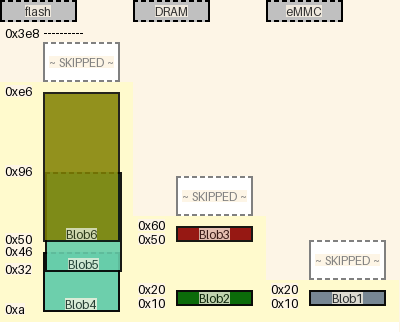
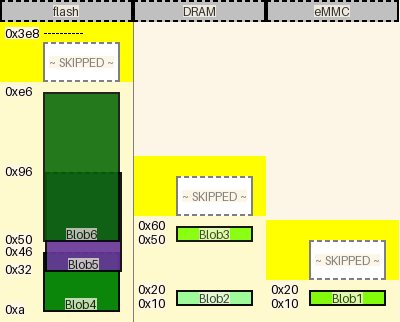
widened title block, fixed dead space at bottom of reduced diagrams

diff --git a/mm/diagram.py b/mm/diagram.py
@@ -69,8 +69,9 @@ class MemoryMapDiagram:
         """width of the area used for text annotations/legend"""
 
         self.name_lbl = mm.image.MapNameImage(self.name, 
-                                              img_width=(self.width - self._legend_width - (self.width//5)), 
+                                              img_width=self.width, 
                                               font_size=self.default_region_text_size)
+        """Title graphic for this memory map"""
         
         self.voidregion = mm.image.VoidRegionImage(
             img_width=(self.width - self._legend_width - (self.width//5)), 
@@ -121,14 +122,12 @@ class MemoryMapDiagram:
     def _draw(self, 
               image_list: List[mm.image.MemoryRegionImage]):
         
-        # map_name_lbl = mm.image.TextLabelImage(self.name, self.fixed_legend_text_size, font_colour="red")
         new_diagram_img = PIL.Image.new(
             "RGBA", 
             (self.width, 
              self.height), 
             color="lemonchiffon")
         
-        # new_diagram_img.paste(im=map_name_lbl.img, box=(new_diagram_img.width // 2, new_diagram_img.height - map_name_lbl.height ))
         # paste each new graphic element image to main image
         alpha = 255
         for memregion in image_list:
@@ -211,14 +210,19 @@ class MemoryMapDiagram:
         region_subset_list: List[PIL.Image.Image] = []
         img_addr_idx = 0
 
-        for memregion in memregion_list:
+        for  memregion in memregion_list:
             region_end_addr = memregion.origin_as_int + memregion.size_as_int
             if memregion.freespace_as_int > self.voidthreshold:
 
+                # try and grab some extra space below the region subset
+                # but only if were not at the very bottom of the diagram
+                if img_addr_idx - 10 > 0:
+                    img_addr_idx = img_addr_idx - 10
+                    
                 # dont forget the image is upside down at this stage, so upper and lower are reversed.
                 (left, upper, right, lower) = (
                     0,
-                    img_addr_idx - 10,
+                    img_addr_idx,
                     original_img.width,
                     region_end_addr + 10,
                 )
@@ -244,12 +248,12 @@ class MemoryMapDiagram:
             new_cropped_image = PIL.Image.new(
                 "RGBA", 
                 (self.width, new_cropped_height), 
-                color=Diagram.model.diagram_bgcolour)
-            
-        
+                color="yellow")
+                 
             y_pos = 0
+            
             for region_subset in region_subset_list:
-                
+
                 new_cropped_image.paste(region_subset, (0, y_pos))
                 
                 y_pos = y_pos + region_subset.height
@@ -260,6 +264,8 @@ class MemoryMapDiagram:
                 )
 
                 y_pos = y_pos + self.voidregion.img.height
+
+
 
             self.final_image_reduced = new_cropped_image
 
@@ -341,12 +347,14 @@ class Diagram:
         if self.mmd_list[0].final_image_reduced.height > Diagram.model.diagram_height:
             logging.warning(f"The largest reduced memory map exceeds the overal diagram height. Clamping to {Diagram.model.diagram_height}")
             self.mmd_list[0].final_image_reduced.height = Diagram.model.diagram_height
- 
+    
+        # calc the tallest title graphic
         max_name_lbl_height = 0
         for mmd in self.mmd_list:
             if mmd.name_lbl.img.height > max_name_lbl_height:
                 max_name_lbl_height = mmd.name_lbl.img.height
 
+        # This is the overal diagrm image that we will paste the individual memory map diagram images onto
         reduced_diagram_img = PIL.Image.new(
             "RGBA", 
             (Diagram.model.diagram_width, max_reduced_diagram_height + max_name_lbl_height), 
@@ -355,6 +363,7 @@ class Diagram:
         for idx, mmd in enumerate(self.mmd_list):
             # draw maps upside-down so that their bottom edges line up together (image origin is top-left)
             mmd.final_image_reduced = mmd.final_image_reduced.transpose(PIL.Image.FLIP_TOP_BOTTOM)
+
             # add the mem map diagram image
             reduced_diagram_img.paste(
                 mmd.final_image_reduced, 
@@ -365,6 +374,9 @@ class Diagram:
                 reduced_diagram_img,
                 ( (idx * mmd.width), reduced_diagram_img.height - mmd.name_lbl.img.height),
                 alpha=255)
+            
+            border_canvas = PIL.ImageDraw.ImageDraw(reduced_diagram_img)
+            border_canvas.line(xy=(mmd.final_image_reduced.width, 0, mmd.final_image_reduced.width, mmd.final_image_reduced.height), fill="grey")            
 
         top_addr = Diagram.model.diagram_height
         top_addr_lbl = mm.image.TextLabelImage(hex(top_addr), mmd.fixed_legend_text_size)

diff --git a/tests/test_void_regions.py b/tests/test_void_regions.py
@@ -64,7 +64,7 @@ def test_void_region_default(setup):
 
         assert setup["image_cropped"].exists()
         found_size = PIL.Image.open(str(setup["image_cropped"])).size
-        assert found_size == (400, 550)
+        assert found_size == (400, 540)
 
 
 def test_void_region_uservalue_500(setup):
@@ -113,7 +113,7 @@ def test_void_region_uservalue_500(setup):
         # empty section between rootfs and dtb should be retained
         assert setup["image_cropped"].exists()
         found_size = PIL.Image.open(str(setup["image_cropped"])).size
-        assert found_size == (400, 550)
+        assert found_size == (400, 540)
 
 
 def test_void_region_uservalue_200(setup):
@@ -162,4 +162,4 @@ def test_void_region_uservalue_200(setup):
         # reduced void threshold, so empty section between rootfs and dtb should be voided, making the file smaller
         assert setup["image_cropped"].exists()
         found_size = PIL.Image.open(str(setup["image_cropped"])).size
-        assert found_size == (400, 338)
+        assert found_size == (400, 328)

diff --git a/tests/test_scaling.py b/tests/test_scaling.py
@@ -32,7 +32,7 @@ def test_scaling_x1(setup):
     """ """
     default_diagram_width = 400
     requested_diagram_height = 2000
-    expected_cropped_height = 294
+    expected_cropped_height = 284
     requested_scale = 1
 
     with unittest.mock.patch(
@@ -87,7 +87,7 @@ def test_scaling_x2(setup):
     """ """
     default_diagram_width = 400
     requested_diagram_height = 1000
-    expected_cropped_height = 294
+    expected_cropped_height = 284
     requested_scale = 2
 
     with unittest.mock.patch(

diff --git a/tests/test_docs.py b/tests/test_docs.py
@@ -68,7 +68,7 @@ def test_generate_doc_example_normal(setup):
         # reduced void threshold, so empty section between rootfs and dtb should be voided, making the file smaller
         assert setup["image_cropped"].exists()
         found_size = PIL.Image.open(str(setup["image_cropped"])).size
-        assert found_size == (400, 338)
+        assert found_size == (400, 328)
 
 
 @pytest.mark.parametrize("setup", [{"file_prefix": "_collisions"}], indirect=True)

diff --git a/tests/test_args.py b/tests/test_args.py
@@ -178,7 +178,7 @@ def test_valid_2000_limit_arg_format(setup):
 
         assert setup["image_cropped"].exists()
         outimg = PIL.Image.open(str(setup["image_cropped"]))
-        assert outimg.size[1] == 134
+        assert outimg.size[1] == 124
 
 def test_input_file():
 

diff --git a/doc/example/tests.test_docs_three_maps.md b/doc/example/tests.test_docs_three_maps.md
@@ -1,9 +1,9 @@
 ![memory map diagram](tests.test_docs_three_maps_cropped.png)
 |name|origin|size|free Space|collisions
 |:-|:-|:-|:-|:-|
-|<span style='color:olive'>Blob6</span>|0x50|0x96|0x302|{'Blob5': '0x50'}|
-|<span style='color:darkred'>Blob3</span>|0x50|0x10|0x388|{}|
-|<span style='color:mediumaquamarine'>Blob5</span>|0x32|0x64|-0x46|{'Blob4': '0x32', 'Blob6': '0x50'}|
-|<span style='color:darkgreen'>Blob2</span>|0x10|0x10|0x30|{}|
-|<span style='color:slategrey'>Blob1</span>|0x10|0x10|0x3c8|{}|
-|<span style='color:mediumaquamarine'>Blob4</span>|0xa|0x3c|-0x14|{'Blob5': '0x32'}|
+|<span style='color:darkgreen'>Blob6</span>|0x50|0x96|0x302|{'Blob5': '0x50'}|
+|<span style='color:chartreuse'>Blob3</span>|0x50|0x10|0x388|{}|
+|<span style='color:rebeccapurple'>Blob5</span>|0x32|0x64|-0x46|{'Blob4': '0x32', 'Blob6': '0x50'}|
+|<span style='color:palegreen'>Blob2</span>|0x10|0x10|0x30|{}|
+|<span style='color:lawngreen'>Blob1</span>|0x10|0x10|0x3c8|{}|
+|<span style='color:green'>Blob4</span>|0xa|0x3c|-0x14|{'Blob5': '0x32'}|

diff --git a/doc/example/tests.test_docs_two_maps.md b/doc/example/tests.test_docs_two_maps.md
@@ -1,8 +1,8 @@
 ![memory map diagram](tests.test_docs_two_maps_cropped.png)
 |name|origin|size|free Space|collisions
 |:-|:-|:-|:-|:-|
-|<span style='color:mediumblue'>Blob4</span>|0x100|0x10|0x2d8|{}|
-|<span style='color:darkolivegreen'>Blob3</span>|0x50|0x10|0x388|{}|
-|<span style='color:mediumpurple'>Blob5</span>|0x30|0x10|0x10|{}|
-|<span style='color:darkturquoise'>Blob1</span>|0x10|0x10|0xe0|{}|
-|<span style='color:lightskyblue'>Blob2</span>|0x10|0x10|0x10|{}|
+|<span style='color:cadetblue'>Blob4</span>|0x100|0x10|0x2d8|{}|
+|<span style='color:darkorchid'>Blob3</span>|0x50|0x10|0x388|{}|
+|<span style='color:darkviolet'>Blob5</span>|0x30|0x10|0x10|{}|
+|<span style='color:grey'>Blob1</span>|0x10|0x10|0xe0|{}|
+|<span style='color:deepskyblue'>Blob2</span>|0x10|0x10|0x10|{}|

diff --git a/doc/example/tests.test_docs_collisions.md b/doc/example/tests.test_docs_collisions.md
@@ -1,6 +1,6 @@
 ![memory map diagram](tests.test_docs_collisions_cropped.png)
 |name|origin|size|free Space|collisions
 |:-|:-|:-|:-|:-|
-|<span style='color:navy'>dtb</span>|0x90|0x30|0x328|{'rootfs': '0x90'}|
-|<span style='color:steelblue'>rootfs</span>|0x50|0x50|-0x10|{'kernel': '0x50', 'dtb': '0x90'}|
-|<span style='color:midnightblue'>kernel</span>|0x10|0x60|-0x20|{'rootfs': '0x50'}|
+|<span style='color:lightseagreen'>dtb</span>|0x90|0x30|0x328|{'rootfs': '0x90'}|
+|<span style='color:mediumaquamarine'>rootfs</span>|0x50|0x50|-0x10|{'kernel': '0x50', 'dtb': '0x90'}|
+|<span style='color:chartreuse'>kernel</span>|0x10|0x60|-0x20|{'rootfs': '0x50'}|

diff --git a/doc/example/tests.test_docs_normal.md b/doc/example/tests.test_docs_normal.md
@@ -1,6 +1,6 @@
 ![memory map diagram](tests.test_docs_normal_cropped.png)
 |name|origin|size|free Space|collisions
 |:-|:-|:-|:-|:-|
-|<span style='color:rebeccapurple'>dtb</span>|0x190|0x30|0x228|{}|
-|<span style='color:darkslategrey'>rootfs</span>|0x50|0x30|0x110|{}|
-|<span style='color:darkorchid'>kernel</span>|0x10|0x30|0x10|{}|
+|<span style='color:darkred'>dtb</span>|0x190|0x30|0x228|{}|
+|<span style='color:lime'>rootfs</span>|0x50|0x30|0x110|{}|
+|<span style='color:blueviolet'>kernel</span>|0x10|0x30|0x10|{}|
